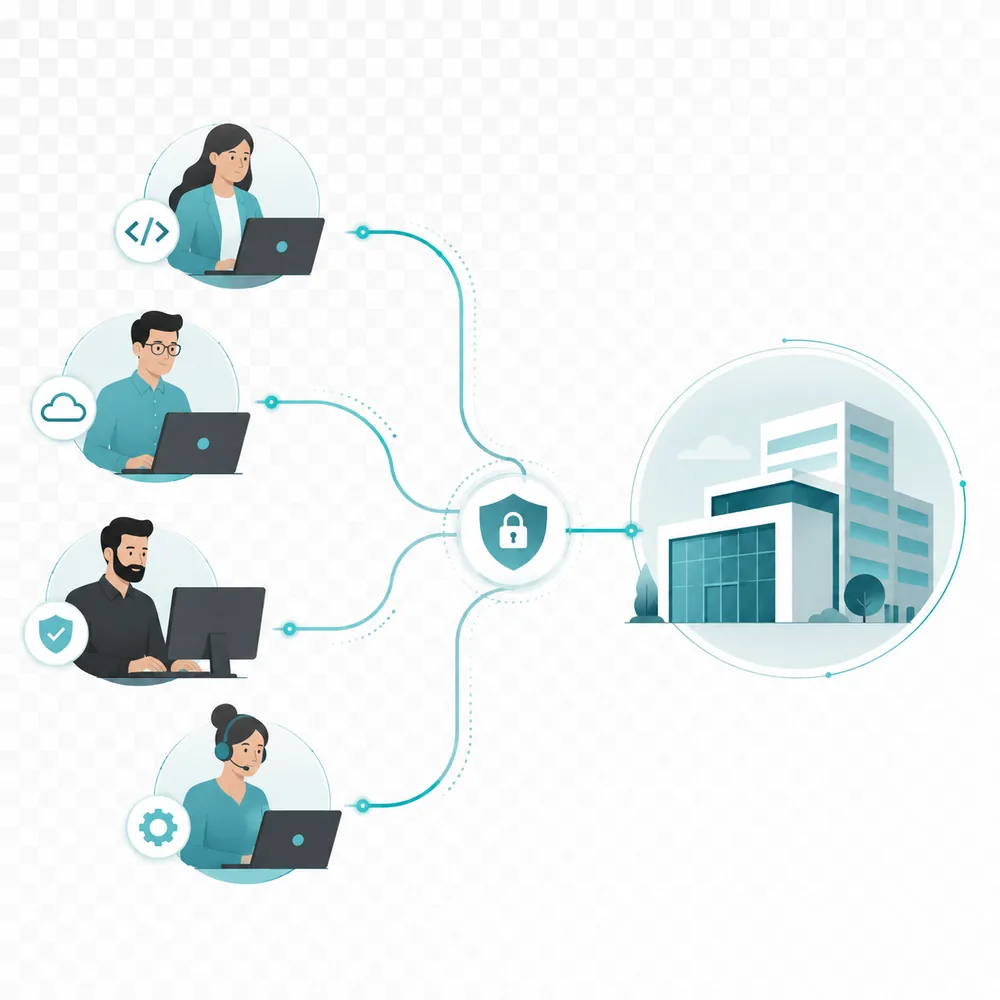
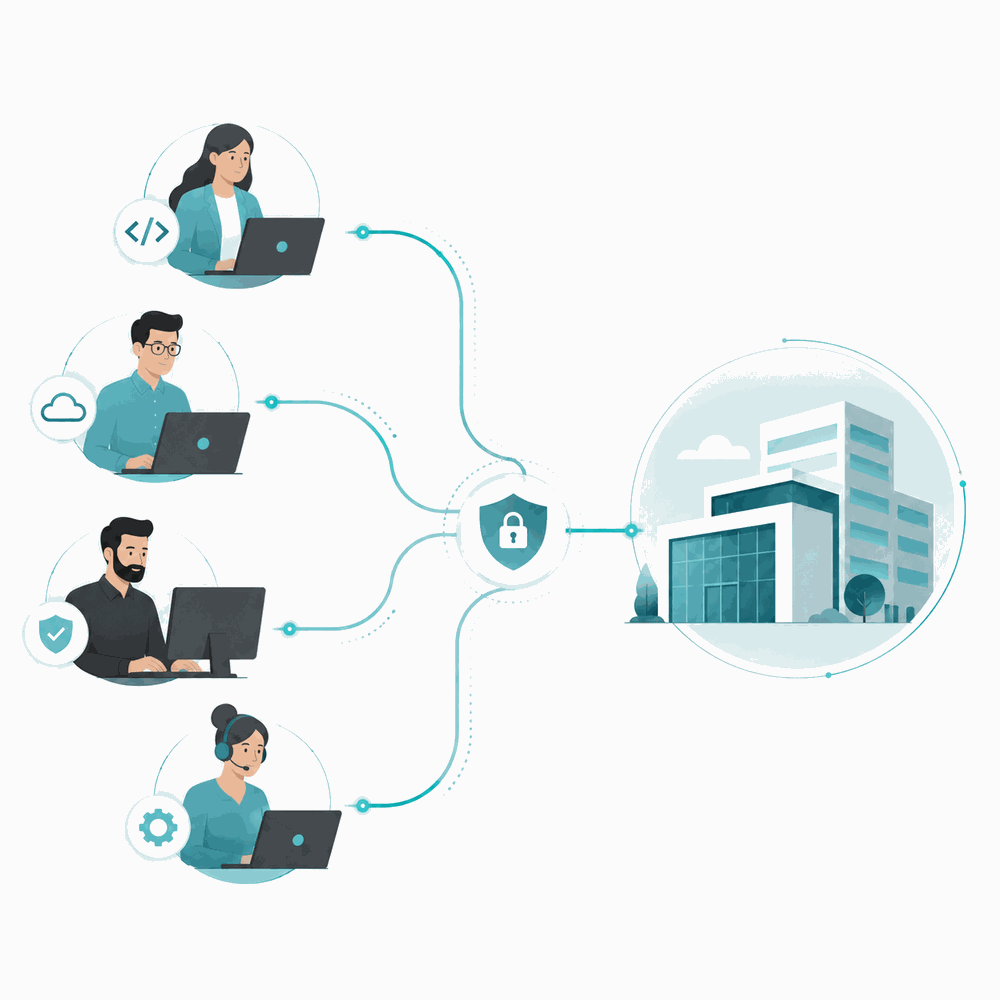
Q-Pod: usar el nuevo WebP (fondo sólido) enmarcado en tarjeta
La nueva ilustración es opaca (#fbfbfb, sin alfa). Se sirve el WebP
directamente (37 KB) y se enmarca en una tarjeta (mismo fondo, esquinas
redondeadas, borde fino y sombra suave) para que el recuadro claro se vea
intencional sobre el fondo crema. Se elimina el PNG (webp universal en 2026).

Changed region(s): [[0.155, 0.372, 0.186, 0.403]]

diff --git a/servicios/staff-augmentation-nearshore.html b/servicios/staff-augmentation-nearshore.html
@@ -55,11 +55,8 @@
             <span class="chip">Husos · <strong>ES · AR · EE.UU.</strong></span>
           </div>
         </div>
-        <figure class="hero-illo" style="margin:0;">
-          <picture>
-            <source srcset="/assets/img/qerub-equipos-pod.webp" type="image/webp">
-            <img src="/assets/img/qerub-equipos-pod.png" width="1000" height="1000" decoding="async" loading="eager" style="width:100%;height:auto;display:block;" alt="Especialistas senior de desarrollo, cloud, ciberseguridad y operación conectados de forma segura con la empresa cliente" />
-          </picture>
+        <figure class="hero-illo" style="margin:0;background:#fbfbfb;border:1px solid var(--line);border-radius:18px;padding:10px;box-shadow:0 24px 50px -30px rgba(14,20,22,.22);">
+          <img src="/assets/img/qerub-equipos-pod.webp" width="1000" height="1000" decoding="async" loading="eager" style="width:100%;height:auto;display:block;border-radius:10px;" alt="Especialistas senior de desarrollo, cloud, ciberseguridad y operación conectados de forma segura con la empresa cliente" />
         </figure>
       </div>
       <style>
